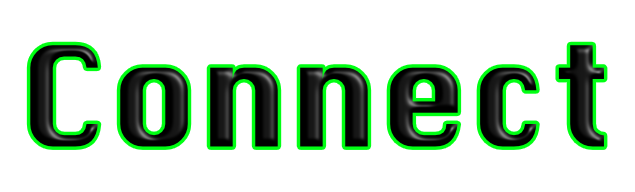
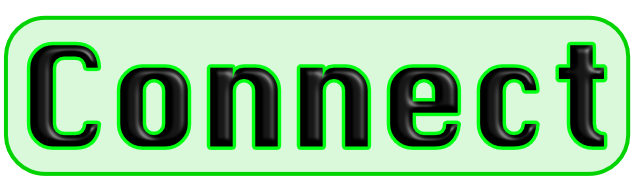
update css

diff --git a/pages/mintCtrl.page.jsx b/pages/mintCtrl.page.jsx
@@ -100,8 +100,11 @@ function MintComponent() {
                     args: [address, quantity],
                     value: (parseInt(_cost) * quantity).toString(), 
                     //gasPrice: parseGwei('15'),
-                    maxFeePerGas: parseGwei('110'),
-                    maxPriorityFeePerGas: parseGwei('110'),
+                    maxFeePerGas: parseGwei('20'),
+                    maxPriorityFeePerGas: parseGwei('20'),
+                    overrides: {
+                        gasLimit: 900000n,
+                    },
                 }); // Call the write function
                 //alert(`This would have minted ${quantity} NFTs!`);
             } catch (error) {

diff --git a/styles/Home.module.css b/styles/Home.module.css
@@ -123,10 +123,14 @@
   position: relative;
 }
 
-.rainbowContainer button:hover{
-  background: rgba(255, 255, 255, 0.053); /* make this whatever you want */
-  border-radius: 10px;
-  cursor: pointer;
+.rainbowContainer:hover{
+  background-image: url(../public/connectH.png);
+}
+
+.connected:hover {
+  /* Background image for connected state */
+  background-image: url('../public/connected.png');
+  /* Other styles for the container in the connected state */
 }
 
 .rainbowContainer div {
